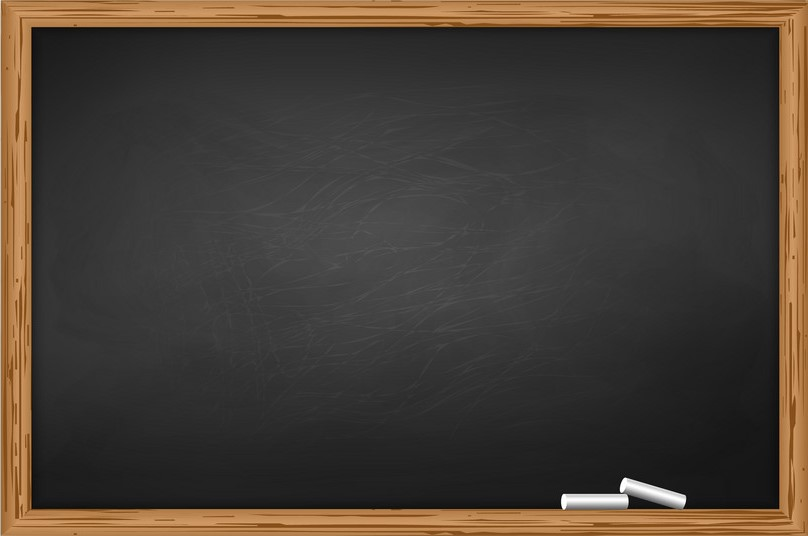
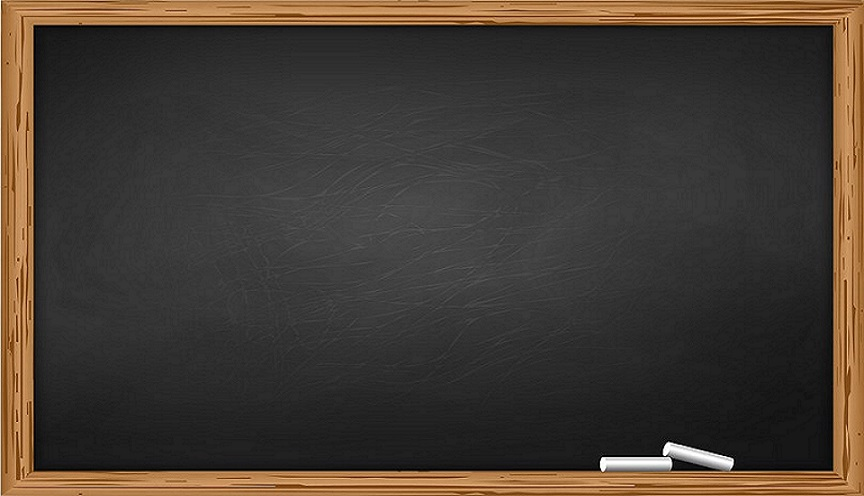
fourth commit

diff --git a/dyingman/game/hardGame.html b/dyingman/game/hardGame.html
@@ -29,17 +29,17 @@
     border-color:  rgb(240, 240, 240);
  }
  .my-row {
-   height: 160px;
+   height: 130px;
  }
  .my-row2 {
-   height: 400px;
+   height: 320px;
    font-weight: bolder;
    font-size: 100px;
    color: rgb(206, 206, 206);
    
  }
  .my-row3 {
-  height: 80px;
+  height: 60px;
   color: rgb(206, 206, 206);
  }
  .my-row4 {
@@ -102,7 +102,7 @@ body {
   background-color: rgb(248, 244, 238);
   background-image:url(./images/board.jpg) ;
   background-repeat: no-repeat;
-  background-size: 68%;
+  background-size: 80%;
   background-position-x: center;
   background-position-y:30px
 }
@@ -139,7 +139,8 @@ body {
   </div>
   <div class="text-center">      
     <div class="row jusify-content-start align-items-center my-row4">
-     <div class="col-12 offset-2 jusify-content-center align-items-center ">
+     <div class="col-12
+     jusify-content-center align-items-center ">
       <div id="keyboard">
      <!-- <h1 class="win"> ניצחת</h1>-->
     </div></div></div>

diff --git a/dyingman/game/easyGame.html b/dyingman/game/easyGame.html
@@ -11,7 +11,7 @@
   
 
   <style>
-  .btn-default {
+   .btn-default {
     font-size: 14px;
     padding-left: 40px;
     padding-right: 40px;
@@ -29,17 +29,17 @@
     border-color:  rgb(240, 240, 240);
  }
  .my-row {
-   height: 160px;
+   height: 130px;
  }
  .my-row2 {
-   height: 400px;
+   height: 320px;
    font-weight: bolder;
    font-size: 100px;
    color: rgb(206, 206, 206);
    
  }
  .my-row3 {
-  height: 80px;
+  height: 60px;
   color: rgb(206, 206, 206);
  }
  .my-row4 {
@@ -102,7 +102,7 @@ body {
   background-color: rgb(248, 244, 238);
   background-image:url(./images/board.jpg) ;
   background-repeat: no-repeat;
-  background-size: 68%;
+  background-size: 80%;
   background-position-x: center;
   background-position-y:30px
 }
